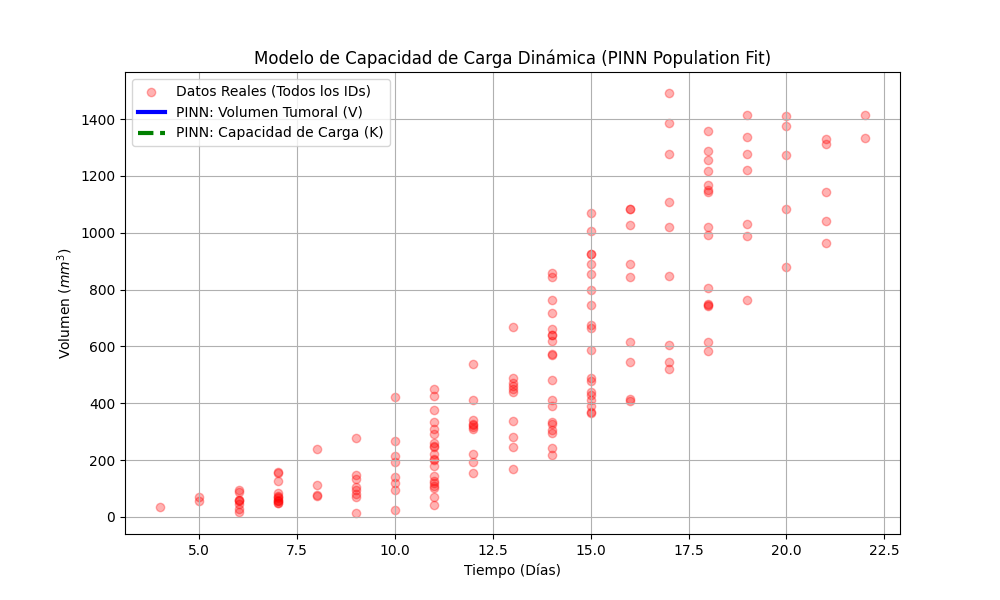
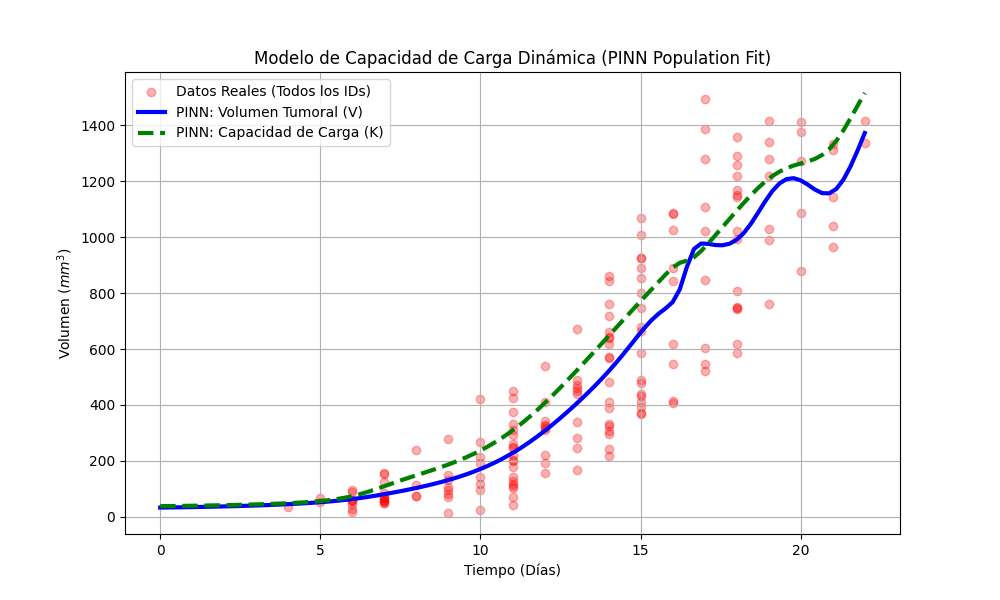
fix: numbers too small as denominators

diff --git a/PINNs.py b/PINNs.py
@@ -11,7 +11,6 @@ df = pd.read_csv('LLC_sc_CCSB.txt')
 t_data = df['Time'].values
 V_data = df['Vol'].values
 
-# --- NORMALIZACIÓN  ---
 t_max = np.max(t_data)
 V_max = np.max(V_data)
 
@@ -29,7 +28,7 @@ class TumorPINN(nn.Module):
     def __init__(self):
         super(TumorPINN, self).__init__()
         
-        # Red Neuronal: Entrada t -> Salida (V_hat, K_hat)
+        # Red Neuronal
         self.net = nn.Sequential(
             nn.Linear(1, 64), nn.Tanh(),
             nn.Linear(64, 64), nn.Tanh(),
@@ -37,13 +36,15 @@ class TumorPINN(nn.Module):
             nn.Linear(64, 2) 
         )
         
-        # Parámetros biológicos entrenables 
+        # Parámetros biológicos entrenables
         self.raw_a = nn.Parameter(torch.tensor([0.5]))
         self.raw_b = nn.Parameter(torch.tensor([0.5]))
         self.raw_d = nn.Parameter(torch.tensor([0.1]))
 
     def forward(self, t):
-        return self.net(t)
+        raw_out = self.net(t)
+        positive_out = torch.nn.functional.softplus(raw_out) + 1e-6
+        return positive_out
 
     def get_params(self):
         a = torch.nn.functional.softplus(self.raw_a)
@@ -52,45 +53,40 @@ class TumorPINN(nn.Module):
         return a, b, d
 
     def physics_loss(self, t, V_obs):
-        # 1. Predicciones
         predictions = self.forward(t)
         V_hat = predictions[:, 0:1] 
         K_hat = predictions[:, 1:2] 
         
-        # Recuperar escalas para las Ecuaciones Diferenciales
-        # V_real = V_hat * V_max
-        # t_real = t * t_max
-        
+        # Derivadas
         dV_dt_norm = torch.autograd.grad(V_hat, t, torch.ones_like(V_hat), create_graph=True)[0]
         dK_dt_norm = torch.autograd.grad(K_hat, t, torch.ones_like(K_hat), create_graph=True)[0]
         
+        # Ajuste regla de la cadena
         dV_dt = dV_dt_norm / t_max 
         dK_dt = dK_dt_norm / t_max
         
         a, b, d = self.get_params()
         
-        # 3. Física (EDOs)
-        # Ecuación 1: dV/dt = a * V * log(K/V)
-        res_V = dV_dt - a * V_hat * torch.log(torch.abs(K_hat/V_hat) + 1e-6)
+        # Ecuaciones 
+        res_V = dV_dt - a * V_hat * torch.log(K_hat/V_hat)
         
-        # Ecuación 2: dK/dt = b * V^(2/3) - d * K
-        term_b = b * (V_hat**(2/3)) * (V_max**(2/3) / V_max) # Ajuste de escala
+        term_b = b * (V_hat**(2/3)) * (V_max**(2/3) / V_max)
         term_d = d * K_hat
         
         res_K = dK_dt - (term_b - term_d)
 
-        # 4. Pérdidas
-        loss_data = torch.mean((V_hat - V_obs)**2)  
-        loss_physics = torch.mean(res_V**2) + torch.mean(res_K**2) 
+        # Pérdidas
+        loss_data = torch.mean((V_hat - V_obs)**2)
+        loss_physics = torch.mean(res_V**2) + torch.mean(res_K**2)
         
-        # Forzar condición inicial K0 approx V0 
-        mask_t0 = (t < 0.1) 
+        # Condición inicial K0 ~ V0 (Solo en t=0)
+        mask_t0 = (t < 0.05) 
         if mask_t0.any():
             loss_init = torch.mean((K_hat[mask_t0] - V_hat[mask_t0])**2)
         else:
-            loss_init = 0.0
+            loss_init = torch.tensor(0.0)
 
-        return loss_data * 10 + loss_physics + loss_init
+        return loss_data * 100 + loss_physics + loss_init
 
 # 3. ENTRENAMIENTO
 model = TumorPINN()
@@ -124,14 +120,12 @@ t_plot_real = t_plot.numpy() * t_max
 V_pred_real = V_pred_norm * V_max
 K_pred_real = K_pred_norm * V_max
 
-# Imprimir parámetros finales
 a_final, b_final, d_final = model.get_params()
 print("\n=== PARÁMETROS BIOLÓGICOS ESTIMADOS ===")
 print(f"Tasa de crecimiento (a): {a_final.item():.4f}")
 print(f"Estimulación angiogénica (b): {b_final.item():.4f}")
 print(f"Inhibición vascular (d): {d_final.item():.4f}")
 
-# Gráfica
 plt.figure(figsize=(10, 6))
 plt.scatter(df['Time'], df['Vol'], c='red', alpha=0.3, label='Datos Reales (Todos los IDs)')
 plt.plot(t_plot_real, V_pred_real, 'b-', linewidth=3, label='PINN: Volumen Tumoral (V)')
@@ -143,5 +137,4 @@ plt.ylabel('Volumen ($mm^3$)')
 plt.legend()
 plt.grid(True)
 plt.savefig('resultado_reto.png')
-plt.show()
 
